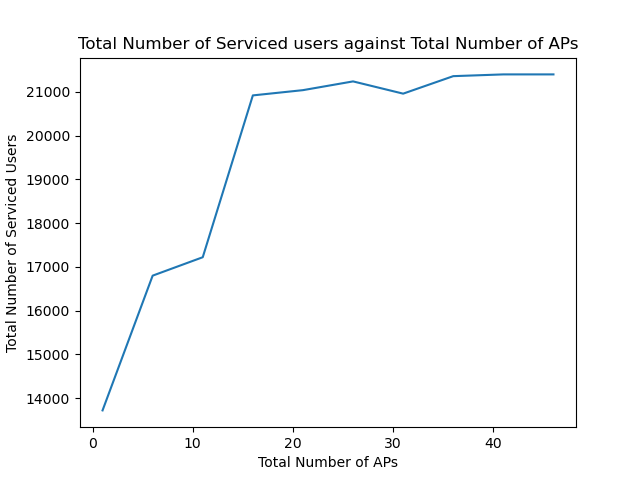
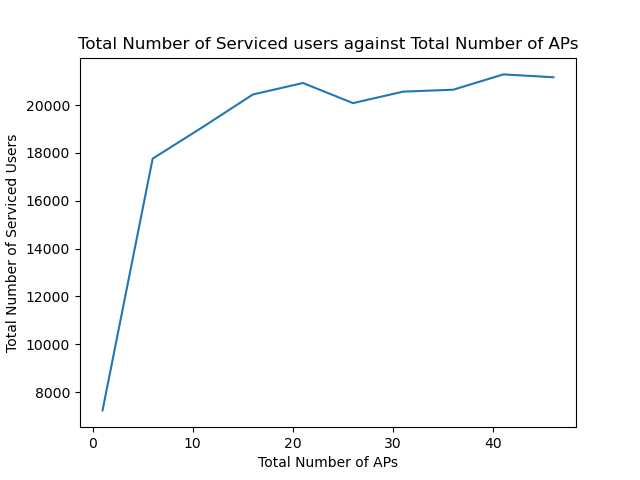
Modular energy consumpion

diff --git a/network-simulator/components.py b/network-simulator/components.py
@@ -119,8 +119,7 @@ class AccessPoint:
     def connectUser(self, id, distance):
         """ Connects a User to the Access Point
 
-        Access Points do not deny User connections but will only service the users
-        prioritising index.
+        Access Points do not deny User connections.
         """
         self.ap_userlist.append([id, distance])
 
@@ -134,16 +133,6 @@ class AccessPoint:
         self.ap_userlist = []
 
         # print("Kicking users resulted in {} ".format(self.ap_userlist))
-
-    # def stateSwitch(self):
-    #     """ Handle the state of the Access Point
-
-    #     Switch on the Access Point if there is sufficient energy to service Users.
-    #     """
-    #     if self.energy_store >= self.energy_consumed:
-    #         self.state = 1
-    #     else:
-    #         self.state = 0
 
     def info(self):
         """ Prints info about the Access Point
@@ -193,22 +182,11 @@ class User:
         """
         active_ap_list = [[ap.id, calcDistance(self.location.x, self.location.y, ap.location.x, ap.location.y)] for ap in aplist if ap.state == 1]
 
-        # for ap in aplist:
-        #     if ap.state == 1:
-        #         active_ap_list.append([ap.id, calcDistance(self.location.x, self.location.y, ap.location.x, ap.location.y)])
-                # print(active_ap_list)
-
         if active_ap_list == []:
-            # print("Access Points are all offline")
             return active_ap_list
         else:
             closest = min(active_ap_list, key=itemgetter(1))
             return closest
-        # for distance in active_ap_list:
-            #     distances.append(distance[1])
-            # for item in active_ap_list:
-            #     if item[1] == min(distances):
-            #         return item
 
     # Move the user to a new location
     def moveUser(self):
@@ -247,7 +225,7 @@ def initialiseEnv(init_vars, ppp):
     Create aplist and usrlist.
     """
 
-    global GRID_SIZE, ENERGY_STORE_MAX, ENERGY_GEN_MAX, AP_TOTAL, USR_TOTAL, POWER_RECEIVED_REQUIRED, DIST_MOVEUSER_MAX, TIME_MAX, PANEL_SIZE
+    global GRID_SIZE, ENERGY_STORE_MAX, ENERGY_GEN_MAX, AP_TOTAL, USR_TOTAL, POWER_RECEIVED_REQUIRED, DIST_MOVEUSER_MAX, TIME_MAX, PANEL_SIZE, ENERGY_SHARE
     global usrlist, aplist, markovstates
 
     GRID_SIZE = init_vars["GRID_SIZE"]
@@ -259,28 +237,21 @@ def initialiseEnv(init_vars, ppp):
     DIST_MOVEUSER_MAX = init_vars["DIST_MOVEUSER_MAX"]
     TIME_MAX = init_vars["TIME_MAX"]
     PANEL_SIZE = init_vars["PANEL_SIZE"]
+    ENERGY_SHARE = init_vars["ENERGY_SHARE"]
     markovstates = init_vars["markov"]
 
     aplist = [AccessPoint]*AP_TOTAL
 
-    # for index in range(AP_TOTAL):
-    #     tmploc = Location(randint(0, GRID_SIZE), randint(0, GRID_SIZE))
-    #     tmpenergy = randint(0, ENERGY_STORE_MAX)
-    #     tmpap = AccessPoint(index, tmploc, tmpenergy)
-    #     aplist.append(tmpap)
     aplist = [AccessPoint(index, Location(randint(0, GRID_SIZE), randint(0, GRID_SIZE)), randint(0, ENERGY_STORE_MAX)) for index in range(AP_TOTAL)]
+
     # Initialise Users
-    # for index in range(USR_TOTAL):
-    #     tmploc = Location(randint(0, GRID_SIZE), randint(0, GRID_SIZE))
-    #     tmpusr = User(index, tmploc) 
-    #     usrlist.append(tmpusr)
     if ppp == 1:
         usr_x, usr_y = generateUsersPPP(GRID_SIZE, USR_TOTAL / GRID_SIZE / GRID_SIZE)
 
-        usrlist = [User]*len(usr_x)
+        usrlist = [None]*len(usr_x)
         usrlist = [User(i, Location(usr_x[i], usr_y[i])) for i in range(len(usr_x))]
     else:
-        usrlist = [User]*USR_TOTAL
+        usrlist = [None]*USR_TOTAL
         usrlist = [User(index, Location(randint(0, GRID_SIZE), randint(0, GRID_SIZE))) for index in range(USR_TOTAL)]
 
     # Create Markov states

diff --git a/network-simulator/energypolicy.py b/network-simulator/energypolicy.py
@@ -1,0 +1,43 @@
+""" Transmission Policies
+1. Picking the cheapest user and only transmitting once
+2. Picking the cheapest users and transmitting until there is no more energy (Greedy)
+3. Smart
+
+returns energy consumption, energy shared and number of users serviced
+"""
+import envs
+from helpers import calcPowerTransmit
+
+def noEnergyShare(userlist, energystore):
+    """ No energy sharing
+    """
+    energyuselist = [calcPowerTransmit(user[1]) for user in userlist]
+    energyuse = [envs.ENERGY_USE_BASE]
+
+    for item in energyuselist:
+        if energystore < sum(energyuse):
+            break
+        energyuse.append(item)
+
+    serviced = len(energyuse) - 1
+
+    return sum(energyuse), 0, serviced
+
+def pickCheapTransmitOnce():
+    """ Picking the cheapest user and only transmitting once
+    """
+    pass
+
+def pickCheapTransmitGreedy():
+    """Picking the cheapest users and transmitting until there is no more energy (Greedy)
+    """
+    pass
+
+def pickSmartTransmit():
+    """ Smart energy usage
+    """
+    pass
+
+def energyPolicy(sel):
+    """ Calls the respective function for energy usage policy
+    """

diff --git a/network-simulator/simulator.py b/network-simulator/simulator.py
@@ -9,6 +9,9 @@ def initVariable():
 
     A dict is generated and modified as needed. This modified dict is passed into the simulator.
     Time unit 5 minutes.
+
+    Energy Share:
+        0 : No energy sharing
     """
 
     init_vars = {
@@ -22,6 +25,7 @@ def initVariable():
         "POWER_RECEIVED_DBM" : -65, 
         "TIME_MAX" : 288,
         "DIST_MOVEUSER_MAX" : 5,
+        "ENERGY_SHARE" : 0,
     }
     init_vars["POWER_RECEIVED_REQUIRED"] = 1 * pow(10, init_vars["POWER_RECEIVED_DBM"]/10) / 1000 * 60 * 5
     return init_vars
